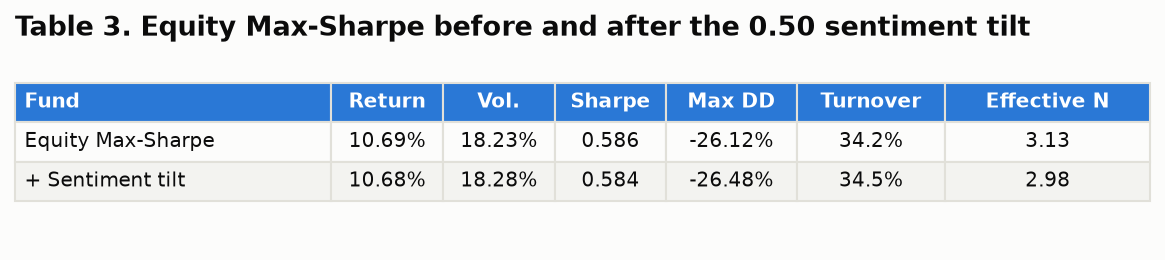
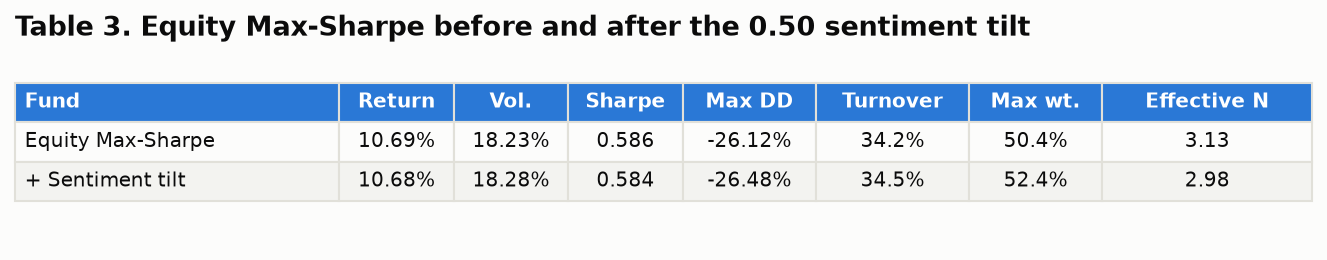
Add the max-weight column to Table 3's image so it backs the text's 50.4%->52.4% claim

diff --git a/scripts/run_part_b.py b/scripts/run_part_b.py
@@ -497,15 +497,16 @@ def table_images():
 
     fc = pd.read_csv(RESULTS / "tables" / "fusion_comparison.csv")
     fc_disp = fc[["fund", "annualised_return", "annualised_volatility", "sharpe_ratio",
-                  "max_drawdown", "avg_turnover", "effective_n_holdings"]].copy()
+                  "max_drawdown", "avg_turnover", "latest_max_weight", "effective_n_holdings"]].copy()
     fc_disp["annualised_return"] = (fc_disp["annualised_return"] * 100).round(2).astype(str) + "%"
     fc_disp["annualised_volatility"] = (fc_disp["annualised_volatility"] * 100).round(2).astype(str) + "%"
     fc_disp["max_drawdown"] = (fc_disp["max_drawdown"] * 100).round(2).astype(str) + "%"
     fc_disp["avg_turnover"] = (fc_disp["avg_turnover"] * 100).round(1).astype(str) + "%"
+    fc_disp["latest_max_weight"] = (fc_disp["latest_max_weight"] * 100).round(1).astype(str) + "%"
     fc_disp["sharpe_ratio"] = fc_disp["sharpe_ratio"].round(3)
     fc_disp["effective_n_holdings"] = fc_disp["effective_n_holdings"].round(2)
     fc_disp["fund"] = ["Equity Max-Sharpe", "+ Sentiment tilt"]
-    fc_disp.columns = ["Fund", "Return", "Vol.", "Sharpe", "Max DD", "Turnover", "Effective N"]
+    fc_disp.columns = ["Fund", "Return", "Vol.", "Sharpe", "Max DD", "Turnover", "Max wt.", "Effective N"]
     save_table_image(fc_disp, "table3_fusion_comparison.png",
                       "Table 3. Equity Max-Sharpe before and after the 0.50 sentiment tilt")
 
